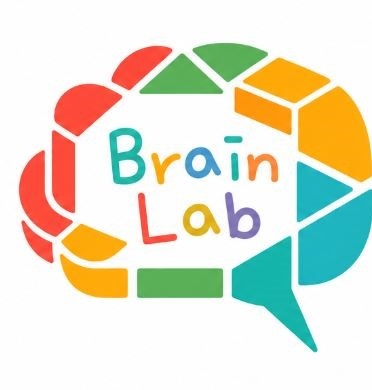
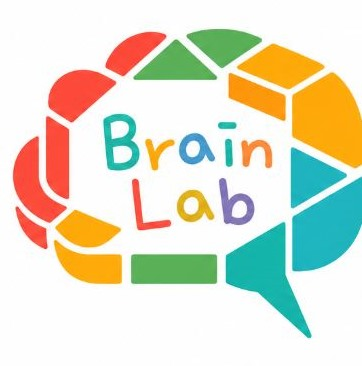
헤더 로고 확대: 데스크톱 심벌 58px·상호 1.42rem, 모바일 반응형 축소, 심벌 여백 트림

Changed region(s): [[0.0304, 0.0601, 1.0, 0.9317], [0.4862, 0.5109, 0.5773, 0.6011], [0.5166, 0.6011, 0.547, 0.6311]]

diff --git a/css/style.css b/css/style.css
@@ -90,14 +90,20 @@ ul, ol { padding-left: 1.2em; }
   backdrop-filter: blur(8px);
   border-bottom: 1px solid var(--line);
 }
-.site-header .wrap { display: flex; align-items: center; justify-content: space-between; height: 68px; }
-.logo-link { display: flex; align-items: center; gap: 10px; }
+.site-header .wrap { display: flex; align-items: center; justify-content: space-between; height: 82px; }
+.logo-link { display: flex; align-items: center; gap: 12px; }
 .logo-link:hover { text-decoration: none; }
-.logo-link img { height: 46px; width: auto; }
-.logo-text { display: flex; flex-direction: column; line-height: 1.12; }
-.logo-text strong { font-size: 1.18rem; font-weight: 800; color: var(--ink-strong); letter-spacing: .02em; }
+.logo-link img { height: 58px; width: auto; }
+.logo-text { display: flex; flex-direction: column; line-height: 1.14; }
+.logo-text strong { font-size: 1.42rem; font-weight: 800; color: var(--ink-strong); letter-spacing: .02em; }
 .logo-text strong em { font-style: normal; color: var(--teal-dark); }
-.logo-text small { font-size: .63rem; font-weight: 600; color: var(--ink-soft); letter-spacing: .3em; }
+.logo-text small { font-size: .74rem; font-weight: 600; color: var(--ink-soft); letter-spacing: .27em; }
+@media (max-width: 820px) {
+  .site-header .wrap { height: 68px; }
+  .logo-link img { height: 46px; }
+  .logo-text strong { font-size: 1.16rem; }
+  .logo-text small { font-size: .62rem; letter-spacing: .24em; }
+}
 .main-nav ul { display: flex; gap: 26px; list-style: none; padding: 0; }
 .main-nav a { color: var(--ink); font-weight: 600; font-size: .96rem; }
 .main-nav a:hover { color: var(--teal-dark); text-decoration: none; }
@@ -114,7 +120,7 @@ ul, ol { padding-left: 1.2em; }
   .nav-toggle { display: grid; place-items: center; }
   .main-nav {
     display: none;
-    position: absolute; top: 64px; left: 0; right: 0;
+    position: absolute; top: 68px; left: 0; right: 0;
     background: #fff; border-bottom: 1px solid var(--line);
     box-shadow: var(--shadow);
   }
